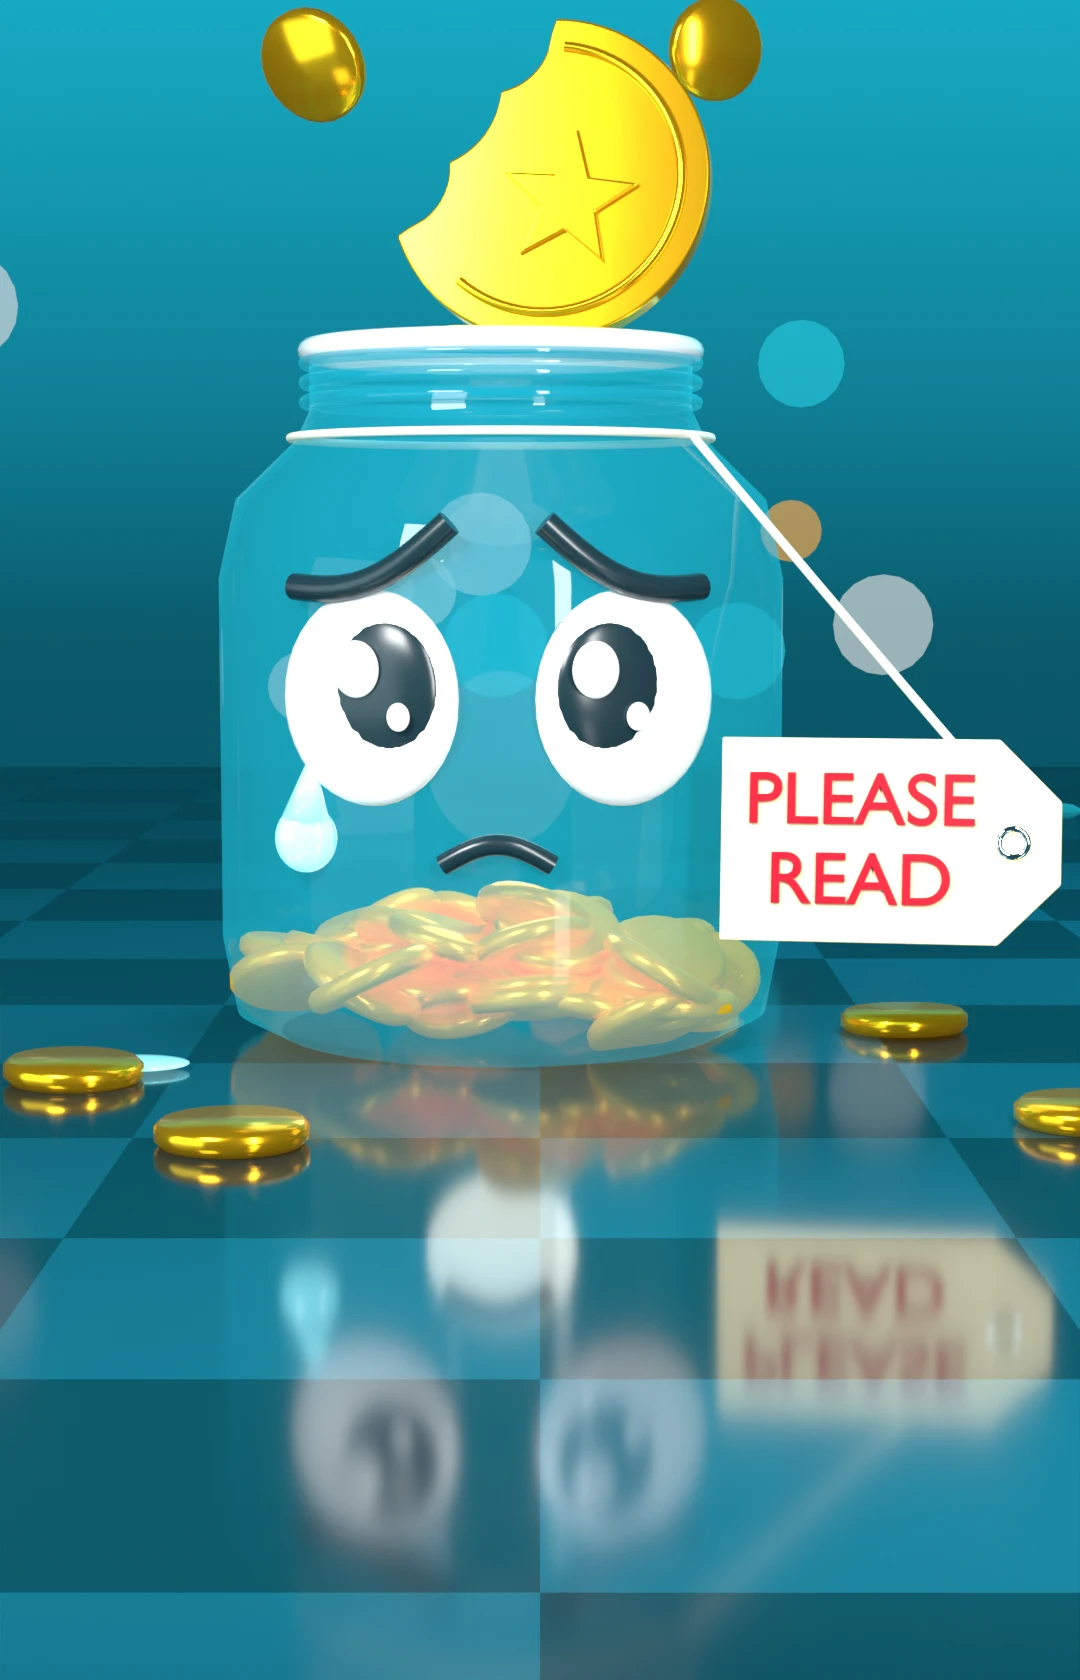
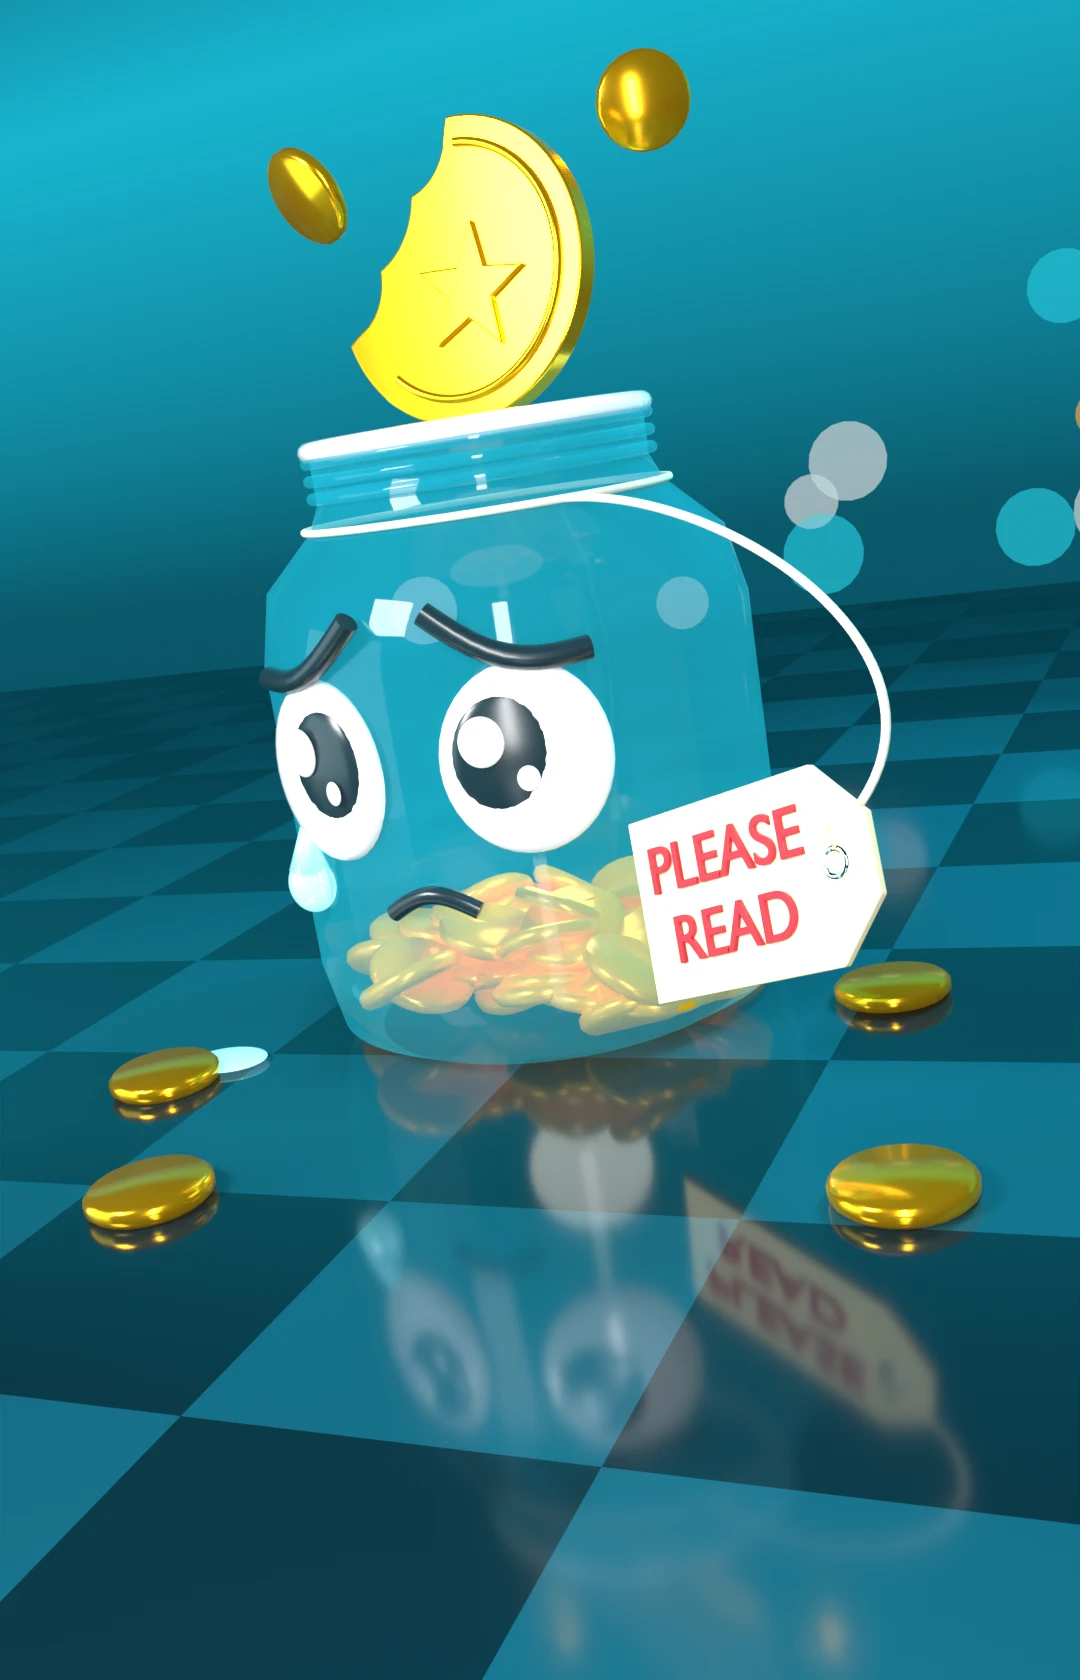
Jimmy Wails's art: a low three-quarter camera, and a tag swinging on a slack string
The camera stands low at the jar's right shoulder with a wide lens and a tipped
horizon, where it had looked at the jar square on. The tag is turned freely in
mid-swing, and its string curves out past the shoulder and down to a loop
through the eyelet. The backdrop is widened so the new angle never sees its edge.

Claude-Session: https://claude.ai/code/session_01FiUbYLWZVbUHsoTTRjrHao

diff --git a/instances/divided-world/ui/cards/jimmy-wails/scene.py b/instances/divided-world/ui/cards/jimmy-wails/scene.py
@@ -6,16 +6,20 @@ import sys, os, math, random
 sys.path.insert(0, os.path.dirname(os.path.dirname(os.path.abspath(__file__))))   # rig.py is one folder up, shared by every card
 sys.dont_write_bytecode = True           # no __pycache__ beside the card folders: the art guard reads every folder there as a card's
 import bpy
-from mathutils import Vector
+from mathutils import Vector, Matrix, Euler, Quaternion
 import rig
 
 OUT = sys.argv[-1]
 rnd = random.Random(int(os.environ.get('WAILS_SEED', '3')))
+def setting(name, default): return tuple(float(v) for v in os.environ.get(name, default).split())
 sc = rig.reset()
-rig.backdrop(18, [(0.0, '#021418'), (0.5, '#0a5a6c'), (0.78, '#18b4d0'), (1.0, '#063848')])
+rig.backdrop(18, [(0.0, '#021418'), (0.5, '#0a5a6c'), (0.78, '#18b4d0'), (1.0, '#063848')]).scale.x = 70   # wide: a camera off to one side never sees its edge
 G = -1.55                                # the floor: the jar stands above the card's name plate
 rig.floor(G, rig.checker('floor', '#04222b', '#0c4a5a', 46, rough=0.1))
 J = Vector((-0.2, 0.6, G))               # the jar's foot
+EYE = J + Vector(setting('WAILS_EYE', '4.1 -8.9 3.4'))    # where the camera stands, from the jar's foot
+AIM = J + Vector(setting('WAILS_AIM', '0 0 1.0'))         # what it looks at
+ROLL = setting('WAILS_ROLL', '-9')[0]    # its tilt about its own line of sight, in degrees
 
 chrome = rig.plastic('chrome', (0.85, 0.95, 1.0), rough=0.06, metallic=1.0)
 ink = rig.plastic('ink', (0.01, 0.03, 0.04), rough=0.25)
@@ -73,10 +77,17 @@ tag = [rig.slab('tag', [(-0.8, 0.5), (0.55, 0.5), (0.85, 0.2), (0.85, -0.2), (0.
        rig.text('READ', 0.36, red, (-0.12, -0.035, -0.2), depth=0.01, bevel=0.003),
        rig.tube('eyelet', [(0.62 + math.cos(a) * 0.07, -0.03, math.sin(a) * 0.07) for a in (math.tau * j / 16 for j in range(17))], 0.02, chrome, res=3)]
 TAG = J + Vector((1.8, -1.6, 1.15))
-rig.group(tag, loc=TAG, rot=(-6, 0, -9), scale=0.95)
-knot = TAG + Vector((0.7, 0.05, 0.02))
+TURN = (-14, -17, -24)                   # mid-swing: its eyelet end up, its face turned out toward the camera
+rig.group(tag, loc=TAG, rot=TURN, scale=0.95)
+place = Matrix.LocRotScale(TAG, Euler([math.radians(a) for a in TURN], 'XYZ'), (0.95,) * 3)   # where the group put the tag
 string = rig.plastic('string', (0.9, 0.85, 0.7), rough=0.6)
-rig.tube('string', [knot + (J + Vector((0.95, -0.55, 3.06)) - knot) * t + Vector((0.25, 0, -0.3)) * math.sin(math.pi * t) for t in (j / 12 for j in range(13))], 0.022, string, res=3)
+loop = rig.tube('loop', [(math.cos(a) * 0.11, 0, math.sin(a) * 0.11) for a in (math.tau * j / 24 for j in range(25))], 0.02, string, res=3)
+loop.matrix_world = place @ Matrix.Translation((0.62, 0, 0.09)) @ Matrix.Rotation(math.radians(80), 4, 'Z') @ Matrix.Scale(1 / 0.95, 4)   # through the eyelet, edge on to the tag
+N = J + Vector((math.cos(-0.75) * 1.08, math.sin(-0.75) * 1.08, 3.06))   # where the string leaves the neck
+top = place @ Vector((0.67, 0, 0.16))    # the loop's top
+def bezier(p0, p1, p2, p3, n=40):
+    return [p0 * (1 - t) ** 3 + p1 * 3 * t * (1 - t) ** 2 + p2 * 3 * t * t * (1 - t) + p3 * t ** 3 for t in (j / n for j in range(n + 1))]
+rig.tube('string', bezier(N, N + Vector((1.1, -0.75, 0.0)), top + Vector((0.75, 0.1, 0.7)), top), 0.022, string, res=3)   # slack: out past the shoulder, round and down to the loop
 rig.tube('string', [J + Vector((math.cos(a) * 1.08, math.sin(a) * 1.08, 3.06)) for a in (math.tau * j / 48 for j in range(49))], 0.022, string, res=3)
 
 # ---- the gifts: coins dropping to the jar, the nearest with The System's overhead bitten out --------
@@ -113,5 +124,7 @@ rig.area('window', (3.5, -8, 3), 1.0, 900, look_at=LOOK, size_y=7.0)   # the tal
 rig.area('rim', (5, 6, 6), 4.0, 2000, rgb=(0.3, 0.9, 1.0), look_at=LOOK, glossy=False)
 rig.area('soft', (-8, -5, 0), 8.0, 500, rgb=(0.7, 0.95, 1.0), look_at=LOOK)
 rig.world((0.02, 0.09, 0.12), 0.7)
-rig.camera(60, elev=6, target=(0, 0, -0.5))
+cam = rig.camera(35)                     # wide and close, low at the jar's right shoulder, the horizon tipped
+cam.location = EYE
+cam.rotation_euler = ((AIM - EYE).to_track_quat('-Z', 'Y') @ Quaternion((0, 0, 1), math.radians(ROLL))).to_euler()
 rig.render(OUT)
